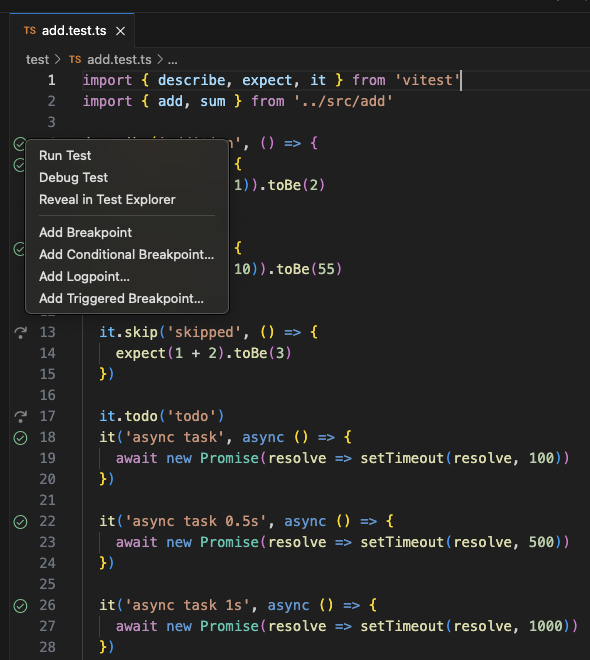
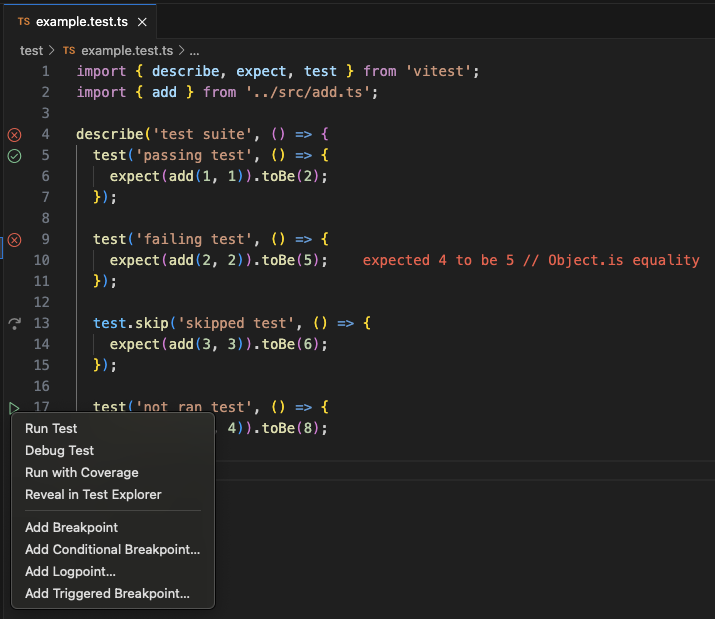
docs: update images for the usage section

diff --git a/README.md b/README.md
@@ -14,9 +14,9 @@ You can manage tests both from the Testing view and directly within your test fi
 
 ![Testing view](./img/vitest-extension.png "Testing view")
 
-You can access the extension from the Testing view **(1)**.
+You can access the extension from the Testing view in the Visual Studio Code sidebar.
 
-The toolbar **(2)** provides various commands to manage test execution:
+The toolbar at the top provides various commands to manage test execution:
 
 - **Refresh Tests**: To reload your test suite, reflecting any new changes.
 - **Run All Tests**: To start testing all cases that are currently visible.
@@ -25,9 +25,11 @@ The toolbar **(2)** provides various commands to manage test execution:
 - **Show Output**: To display detailed logs from test executions.
 - **Miscellaneous Settings**: To customize the Testing view, such as sorting and grouping tests.
 
-The filter bar at the top of the Testing view allows you to narrow down the tests displayed, focusing on specific tests by name, exclusion patterns, or tags.
+> 💡 Hovering, or right clicking a folder, test file, test suite, or a test will reveal more actions.
 
-Icons next to each test indicate their status—passed (checkmark), failed (cross), skipped (arrow), or not executed (dot).
+The filter bar allows you to narrow down the tests displayed, focusing on specific tests by name, exclusion patterns, or tags.
+
+Icons next to each test indicate their status—passed (checkmark), failed (cross), skipped (arrow), queued (yellow icon), or not executed (dot).
 
 ### In the Test File
 
@@ -39,6 +41,7 @@ When viewing a test file, you'll notice test icons in the gutter next to each te
 - **More Options:** Right-click the test icon to open a context menu with additional options:
   - `Run Test`: Execute the selected test case.
   - `Debug Test`: Start a debugging session for the selected test case.
+  - `Run with coverage`: Execute the selected test case while also collecting code coverage information.
   - `Reveal in Test Explorer`: Locate and highlight the test in the centralized Testing view.
   - `Breakpoint Settings`: Set breakpoints to pause execution during debugging. You can add a standard breakpoint, a conditional breakpoint, a logpoint, or a triggered breakpoint.
 
